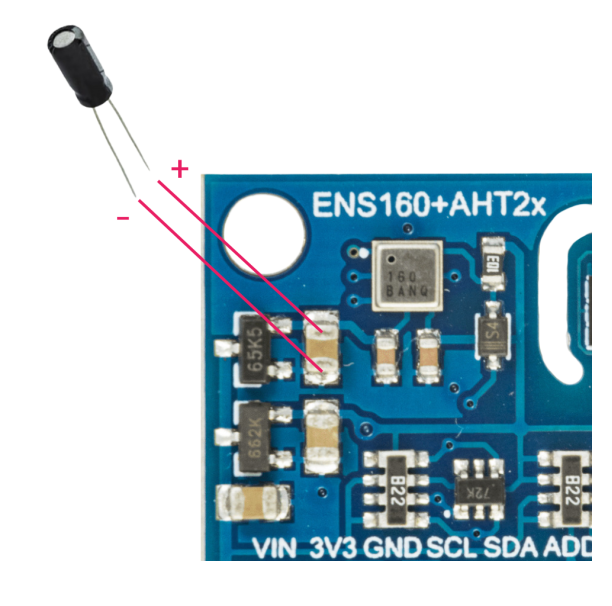
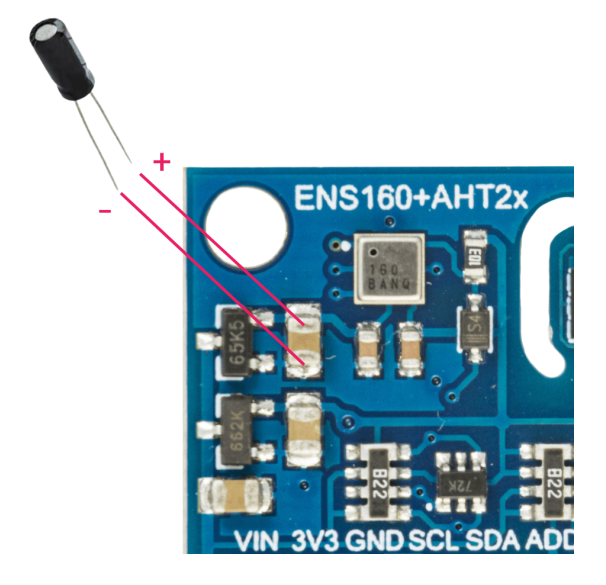
added description

diff --git a/README.md b/README.md
@@ -1,3 +1,15 @@
-The library for handling the ENS160 gas sensor or ATH21 written with the ESP-IDF framework.
+ESP-IDF Library for ENS160 Gas Sensor and ATH21 Temperature/Humidity Sensor
+
+This library provides a C implementation for interfacing with the ENS160 gas sensor and ATH21 sensor using the ESP-IDF framework. Both sensors communicate via I2C bus.
+
+Key Features:
+- Full ESP-IDF framework compatibility
+- Simple API for sensor readings
+- Error handling and data validation
+- Power management support
+
+Known Issues:
+If the ENS160 sensor starts returning zero values consistently, adding a 10µF/16V decoupling capacitor near the sensor's power pins typically resolves the issue.
+
 ![alt text](image.png)
-The sensor may send only "0" after some time, in which case a 10uF/16V capacitor should be soldered.
+
